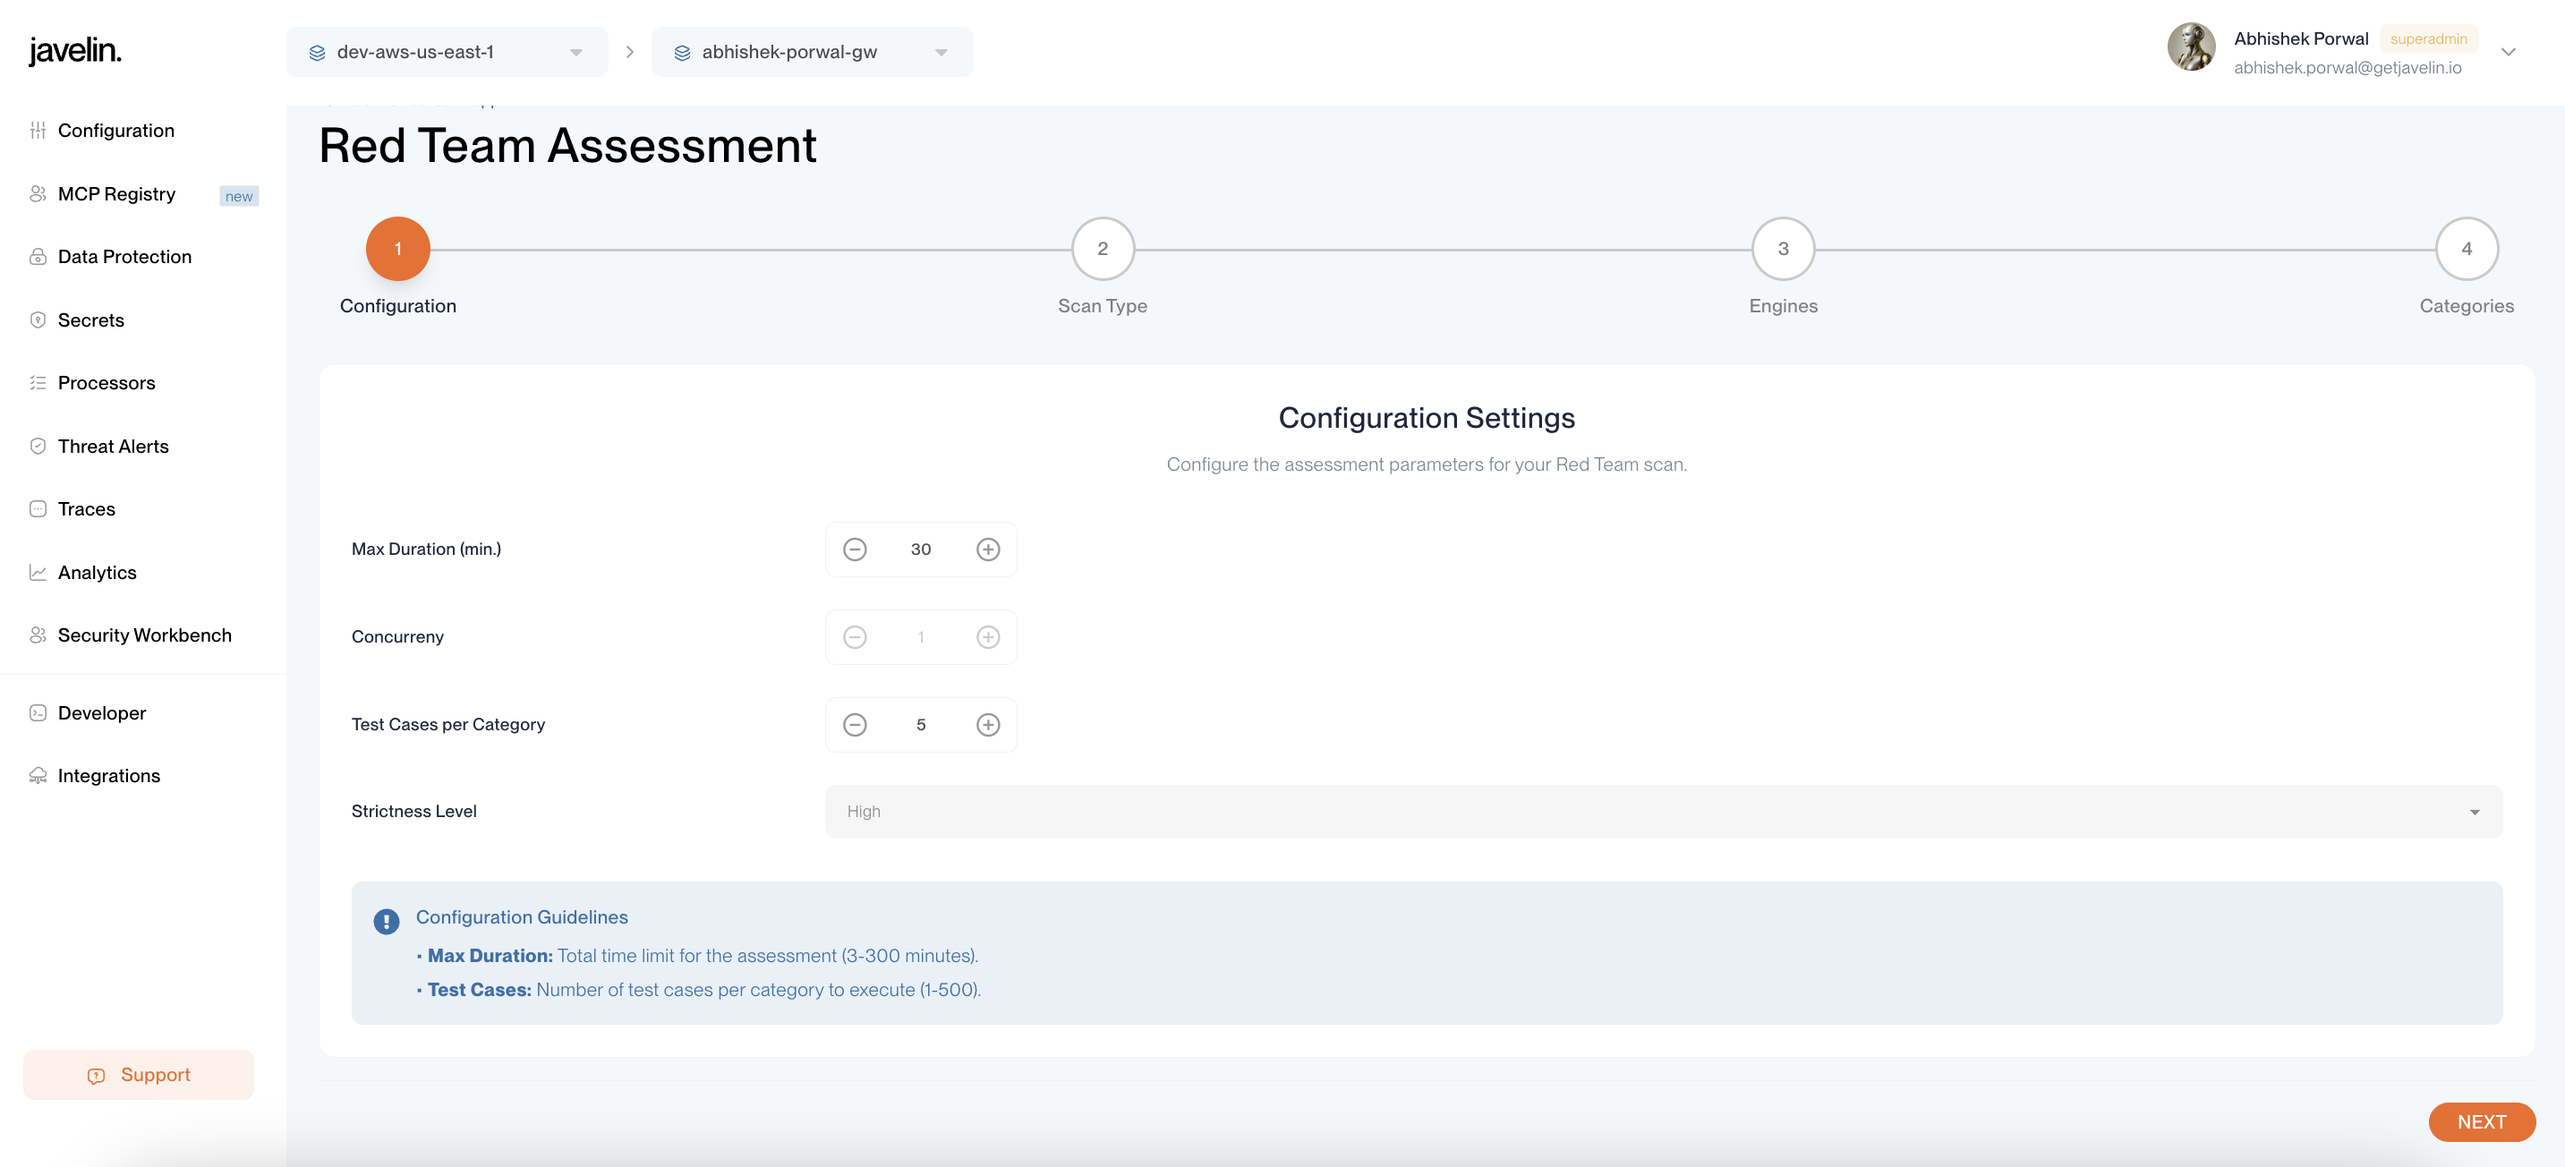
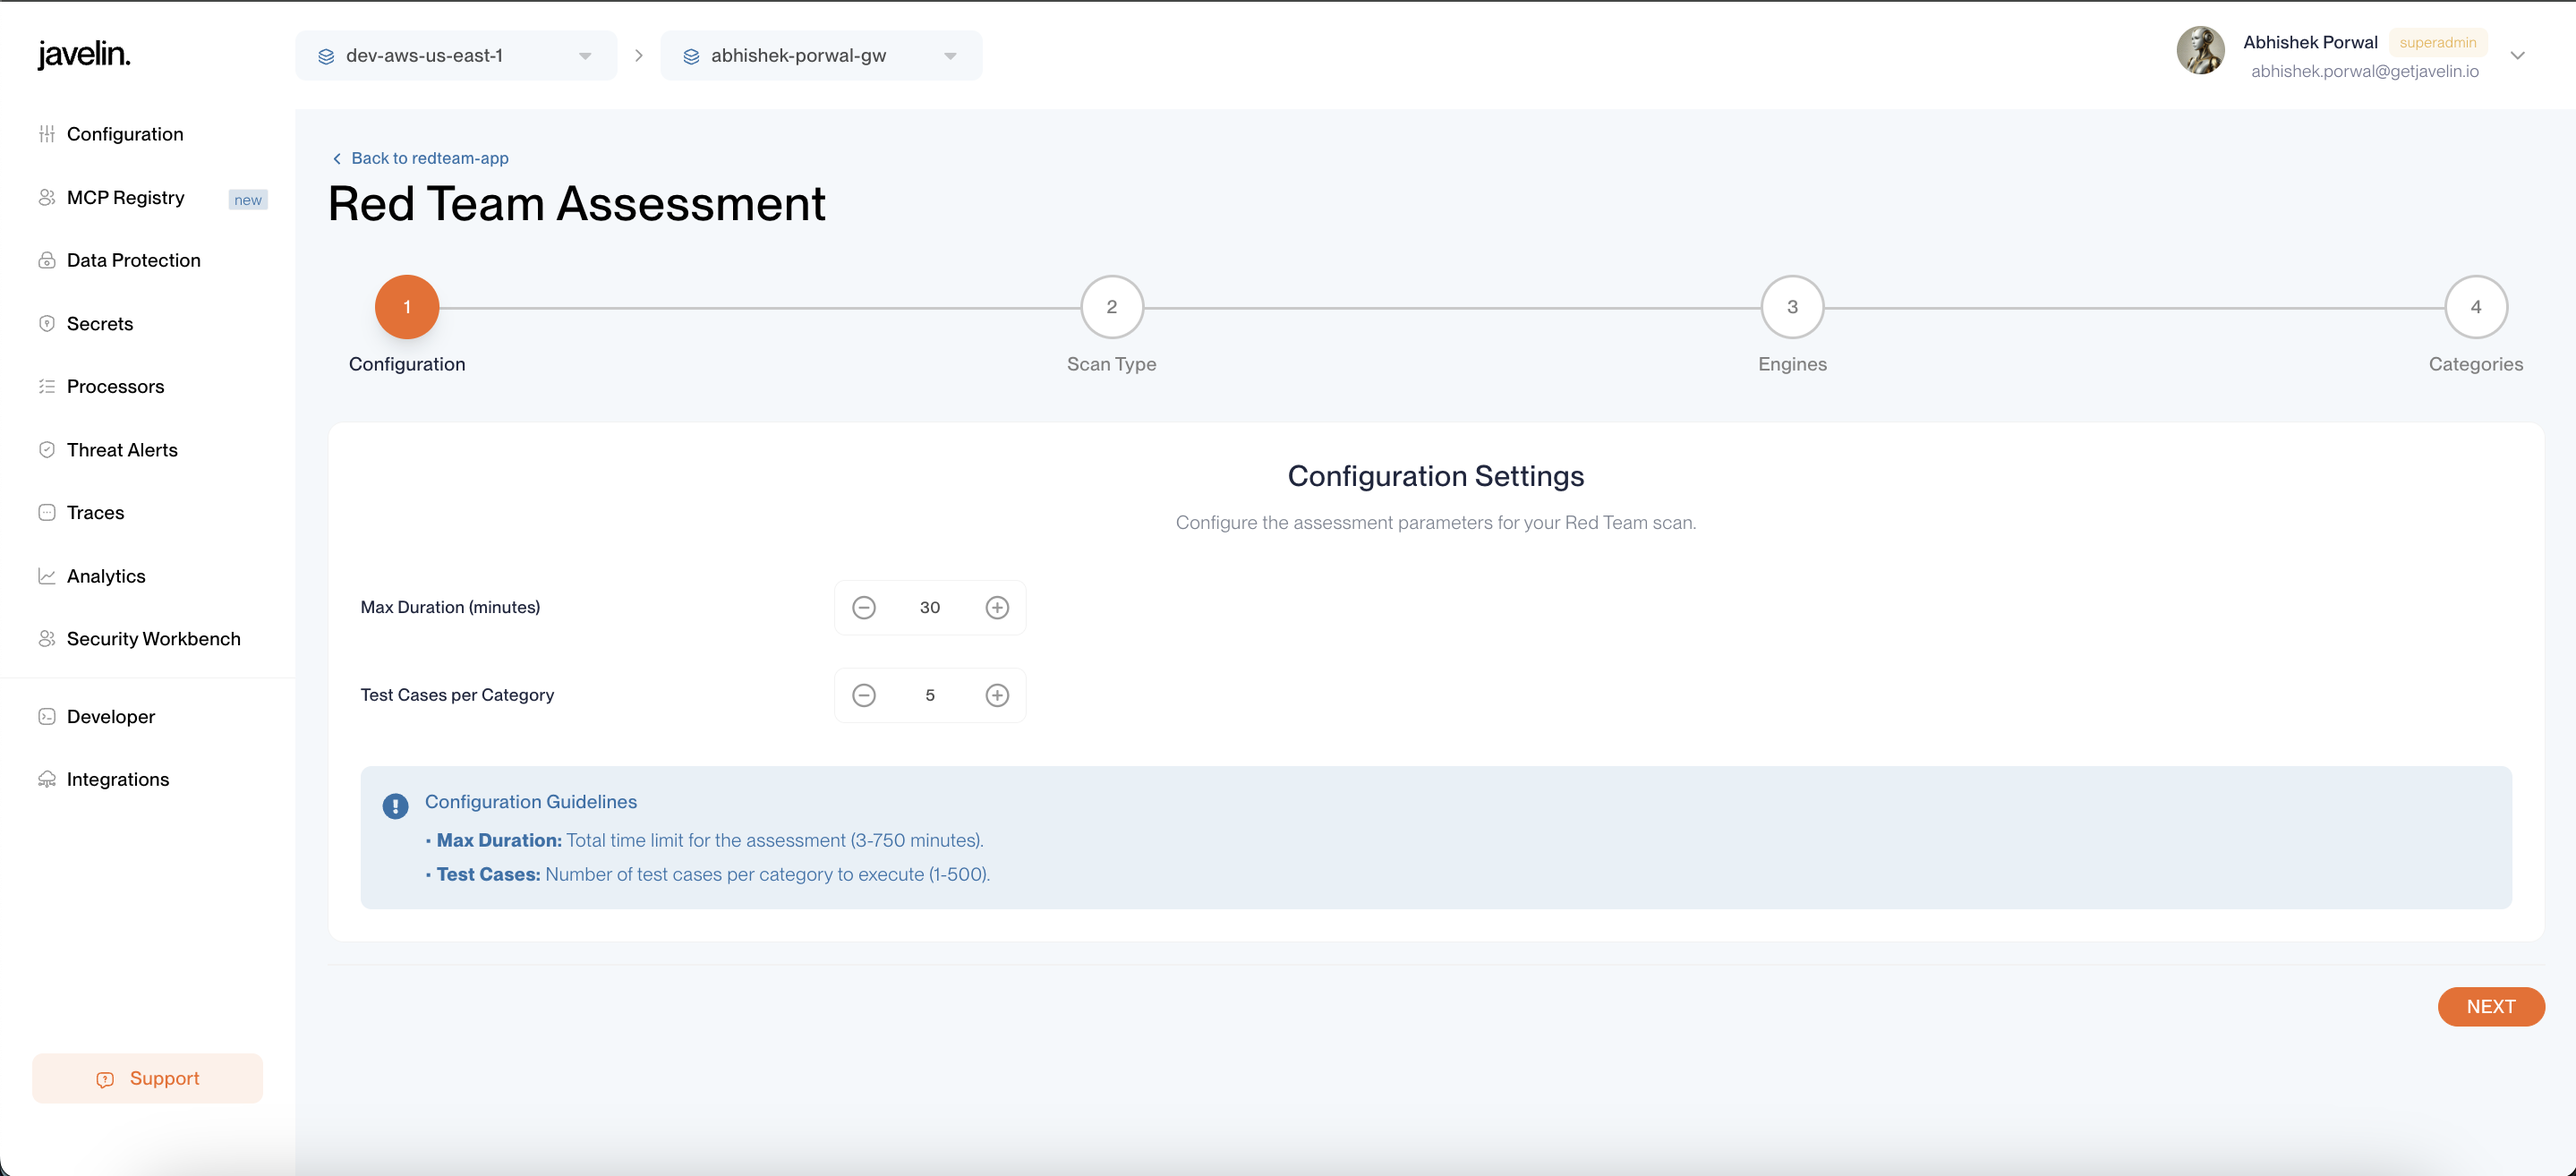
fix: update docs for RedTeam Scan after removal of Strictness and Concurrency Field from RedTeamForm

diff --git a/docs/javelin-redteam/guides/getting-started.md b/docs/javelin-redteam/guides/getting-started.md
@@ -81,7 +81,7 @@ The app is now ready to scan using javelin-redteam.
 
 After creating your application, click on it to open the application overview. From the top menu, select the **Redteam Assessments** tab and then click on **Create New Assessment**.
 
-![Create Redteam Assessment Button](/img/redteam/CreateRedteamAssessment.png)
+![Create Redteam Assessment Button](/img/redteam/RedteamAssessmentTab.png)
 
 ---
 
@@ -98,9 +98,9 @@ The following table outlines each configurable field in this step, along with it
 | Field                    | Description                                                                 | Type         | Constraints / Notes                         |
 |--------------------------|-----------------------------------------------------------------------------|--------------|----------------------------------------------|
 | **Max Duration**         | Maximum allowed time (in minutes) for the scan. Once this duration is reached, scan will be forcefully timed out. | Integer      | Range: `3` to `750`                          |
-| **Concurrency**          | Displays how many test cases can run in parallel. This field is read-only and currently set to 1. | Integer (Read-only) | Currently fixed at `1`                       |
 | **Test Cases per Category** | Maximum number of test cases to run for each selected category.             | Integer      | Maximum allowed: `500`                       |
-| **Strictness Level**     | Determines the sensitivity of test rules.                                   | String (Fixed) | Default: `High`; Not configurable            |
+<!-- | **Concurrency**          | Displays how many test cases can run in parallel. This field is read-only and currently set to 1. | Integer (Read-only) | Currently fixed at `1`                       | -->
+<!-- | **Strictness Level**     | Determines the sensitivity of test rules.                                   | String (Fixed) | Default: `High`; Not configurable            | -->
 
 ---
 
@@ -160,7 +160,7 @@ For detailed information about monitoring scans, cancelling running scans, and h
 
 After completion, locate your scan in the assessment list and click on **Report** under the `Actions` column (or click anywhere on the row) to view detailed results.
 
-![Completed Scan Results View](/img/redteam/CompletedScan.png)
+![Completed Scan Results View](/img/redteam/RedteamAssessmentTab.png)
 
 This will open the comprehensive scan report:
 
